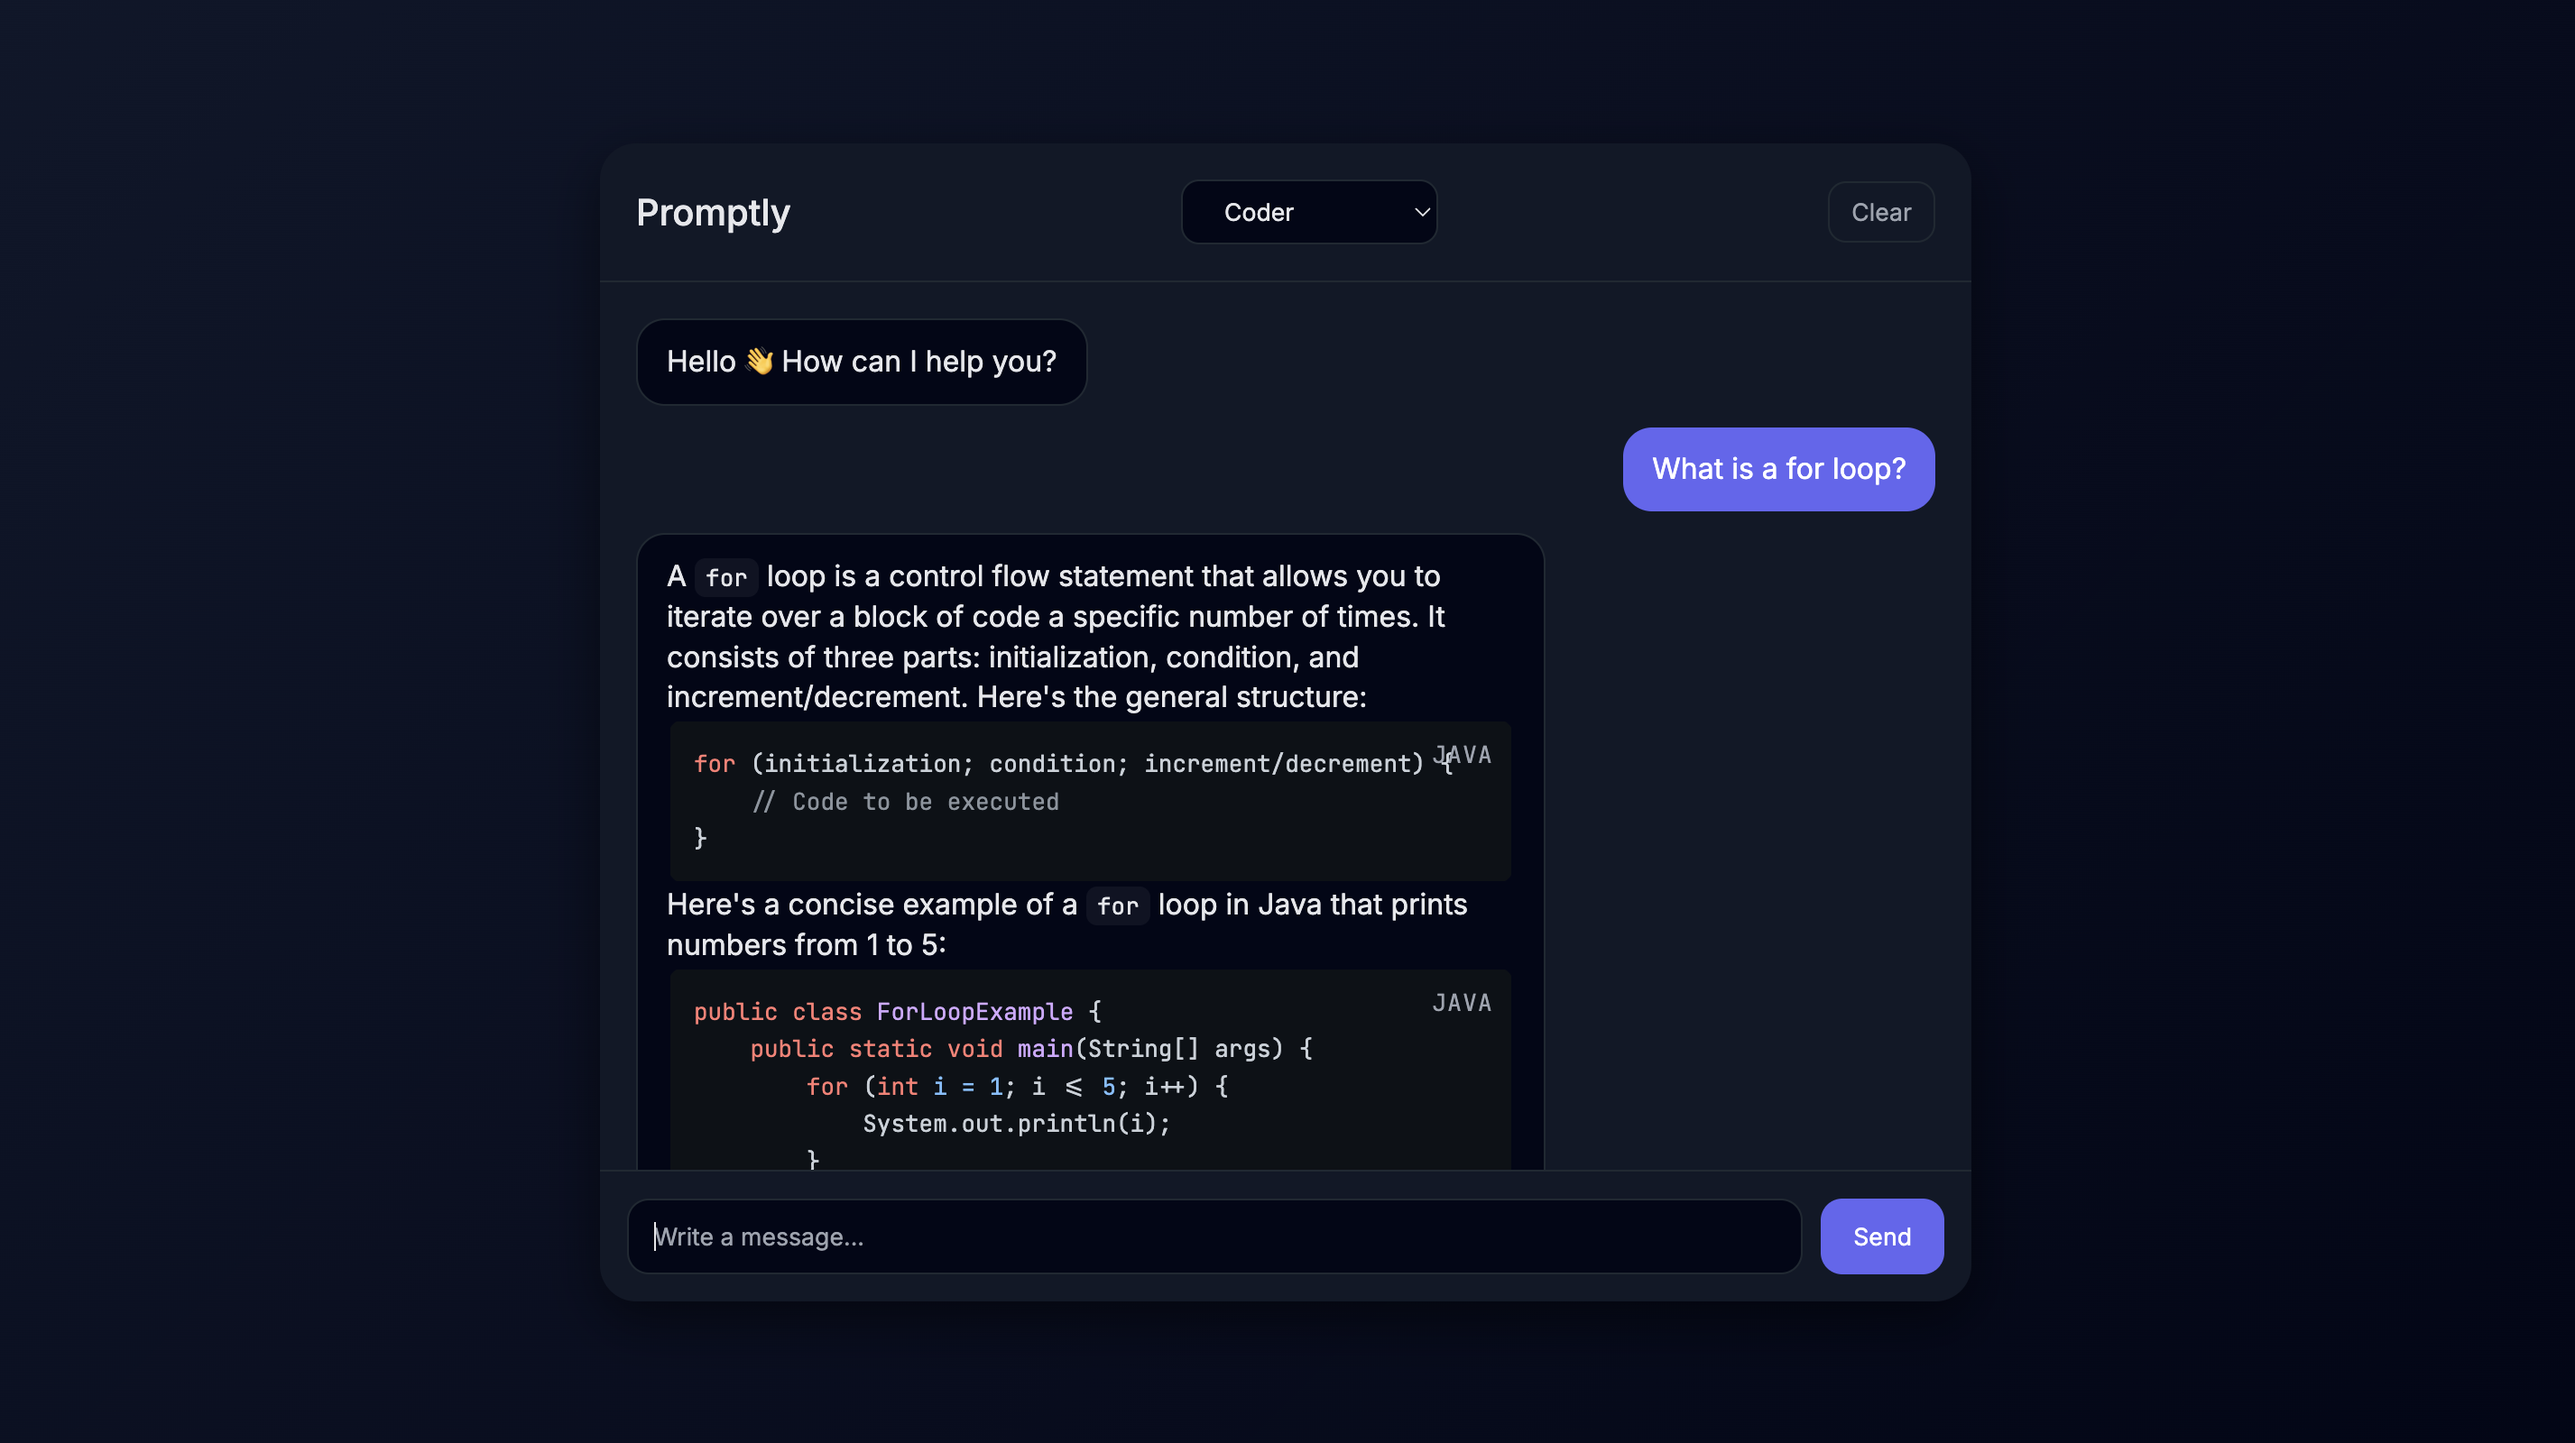
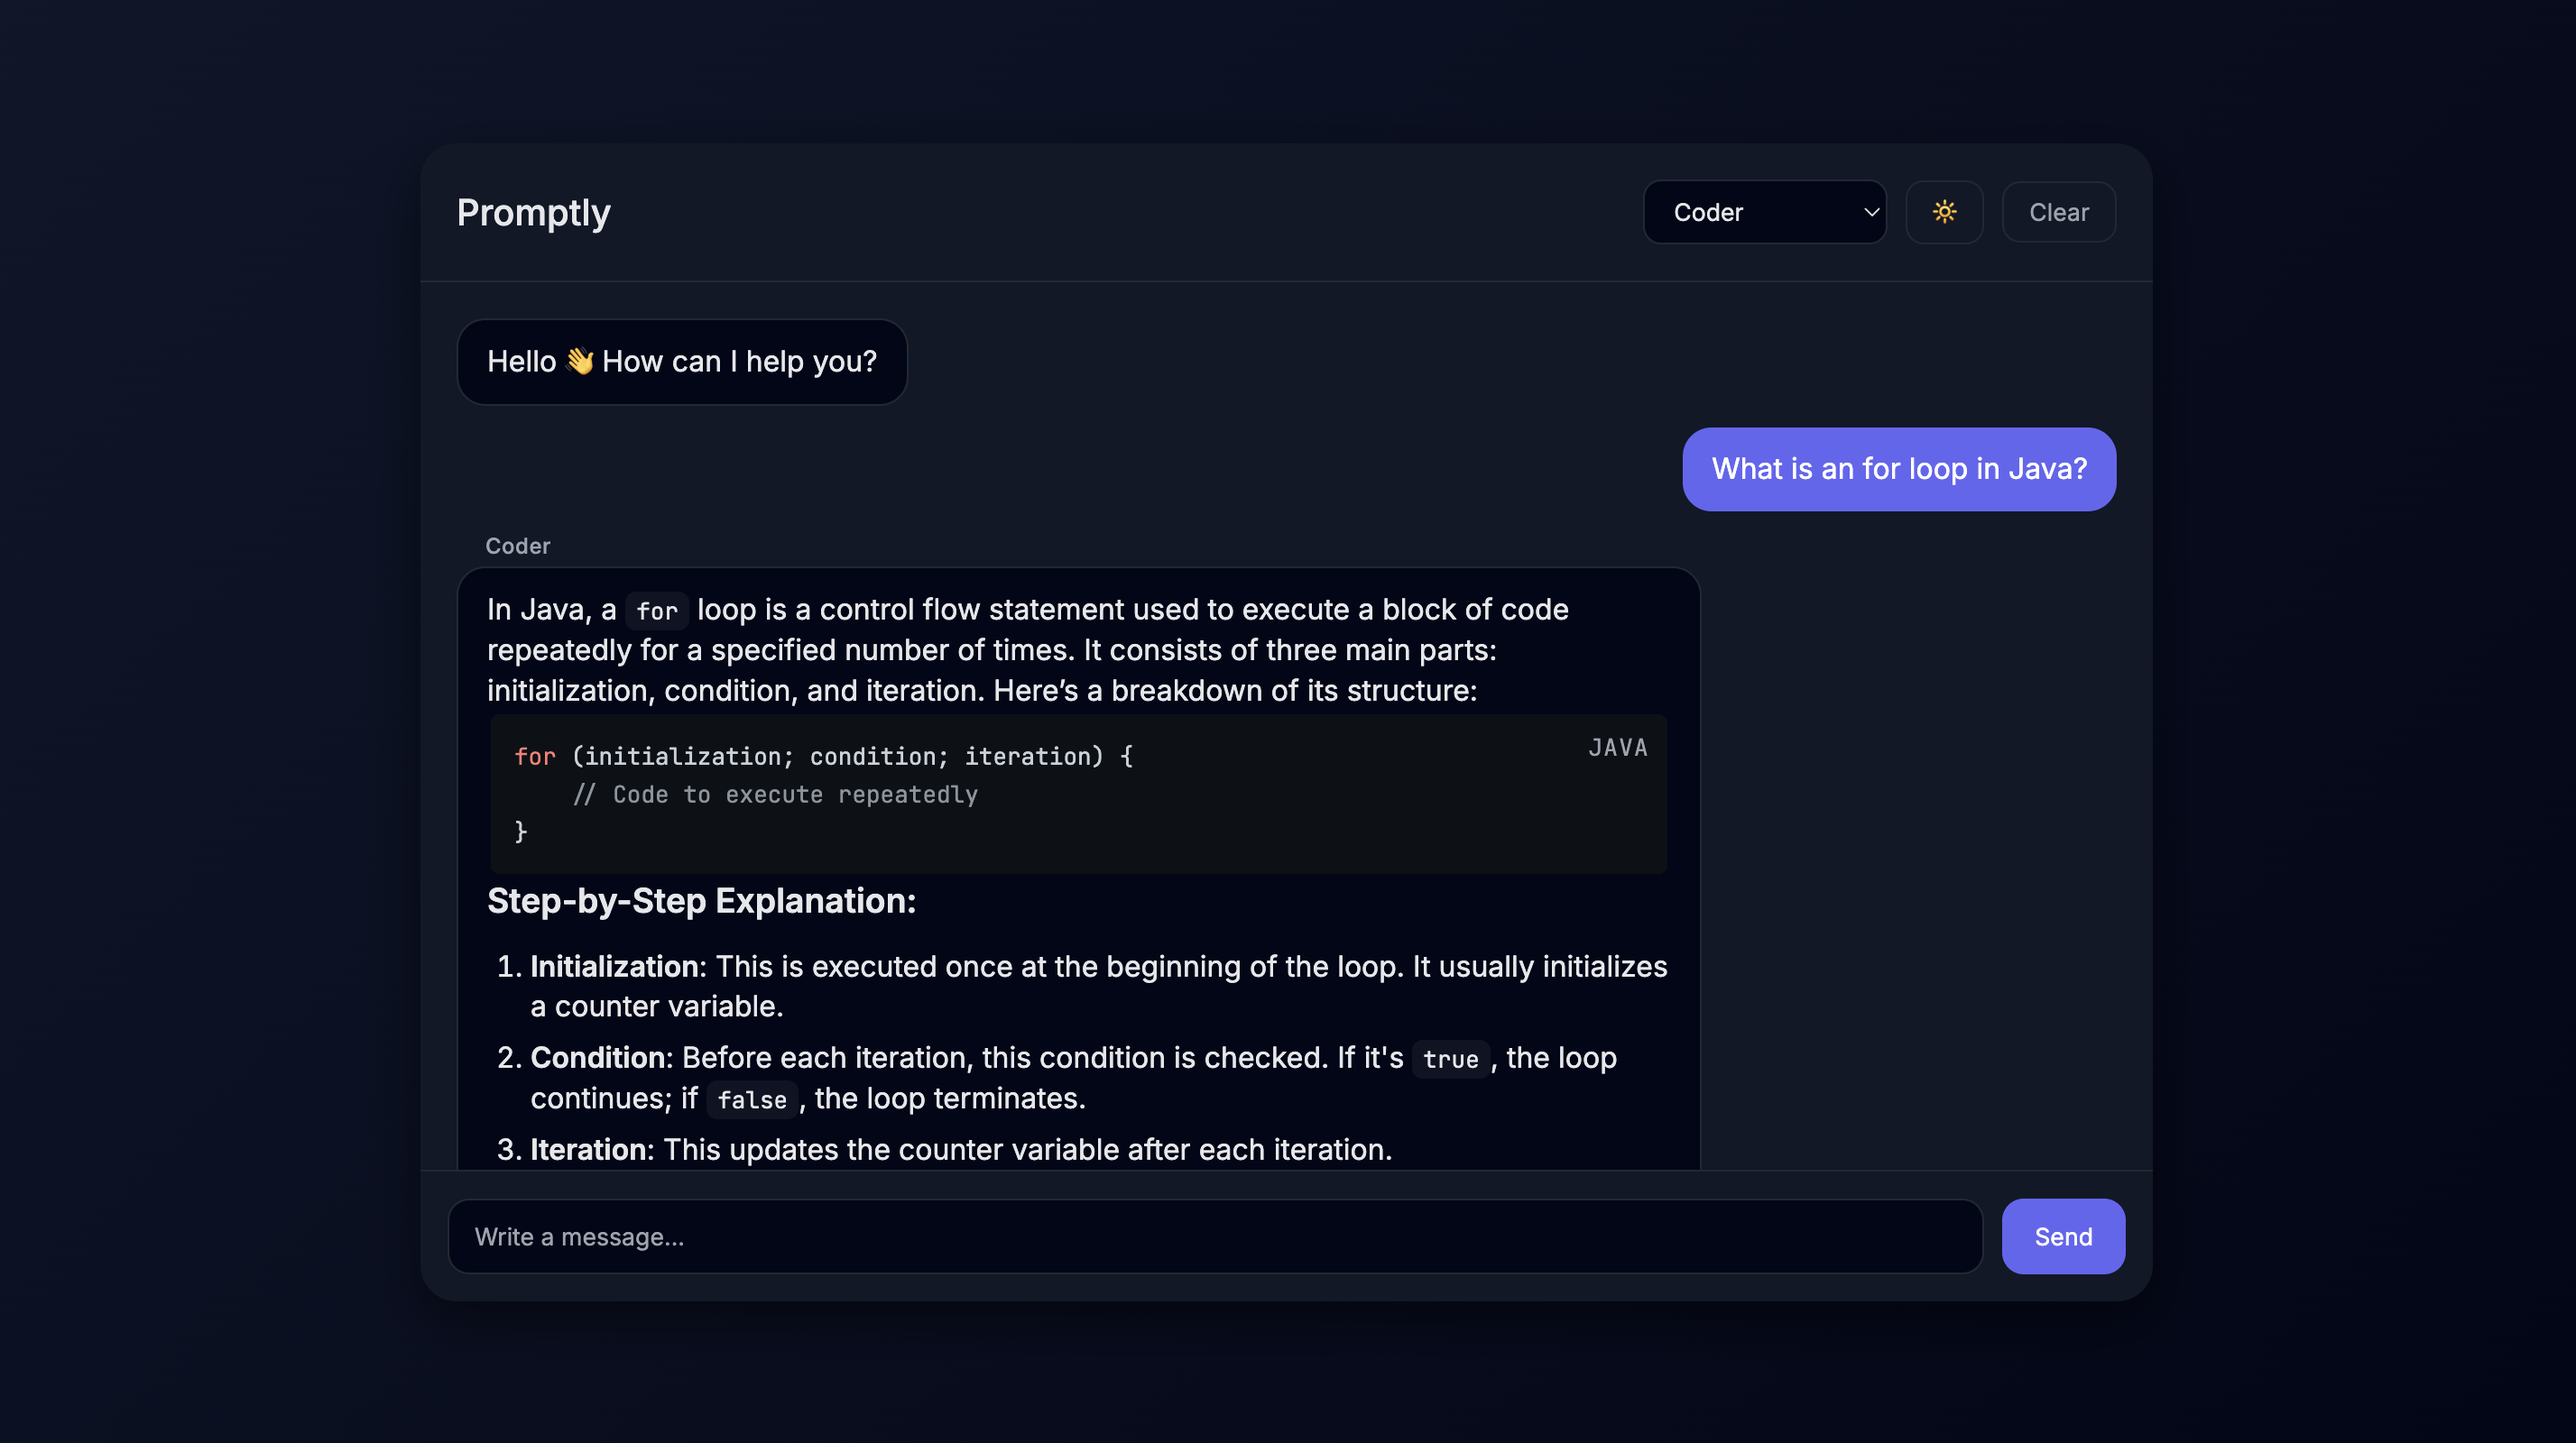
Increase `.message-label` padding for improved spacing and adjust image asset.

diff --git a/src/main/resources/static/css/style.css b/src/main/resources/static/css/style.css
@@ -234,7 +234,7 @@ body.light .message code:not(pre code) {
 .message-label {
     font-size: 12px;
     color: var(--muted);
-    padding-left: 4px;
+    padding-left: 16px;
     font-weight: 500;
     letter-spacing: 0.02em;
 }
